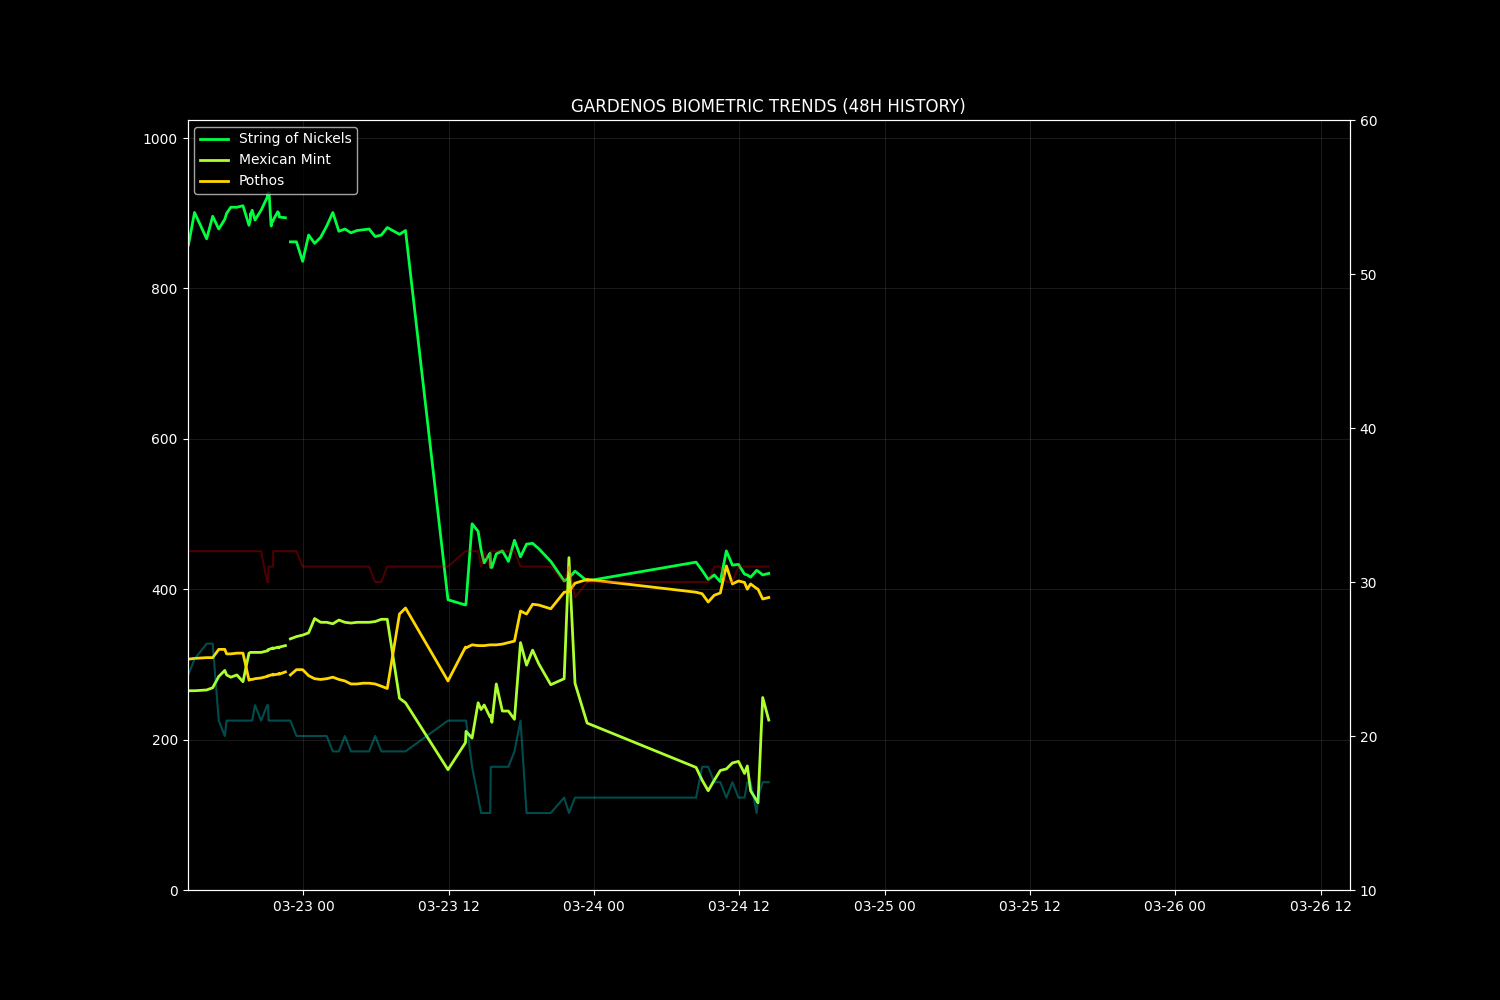
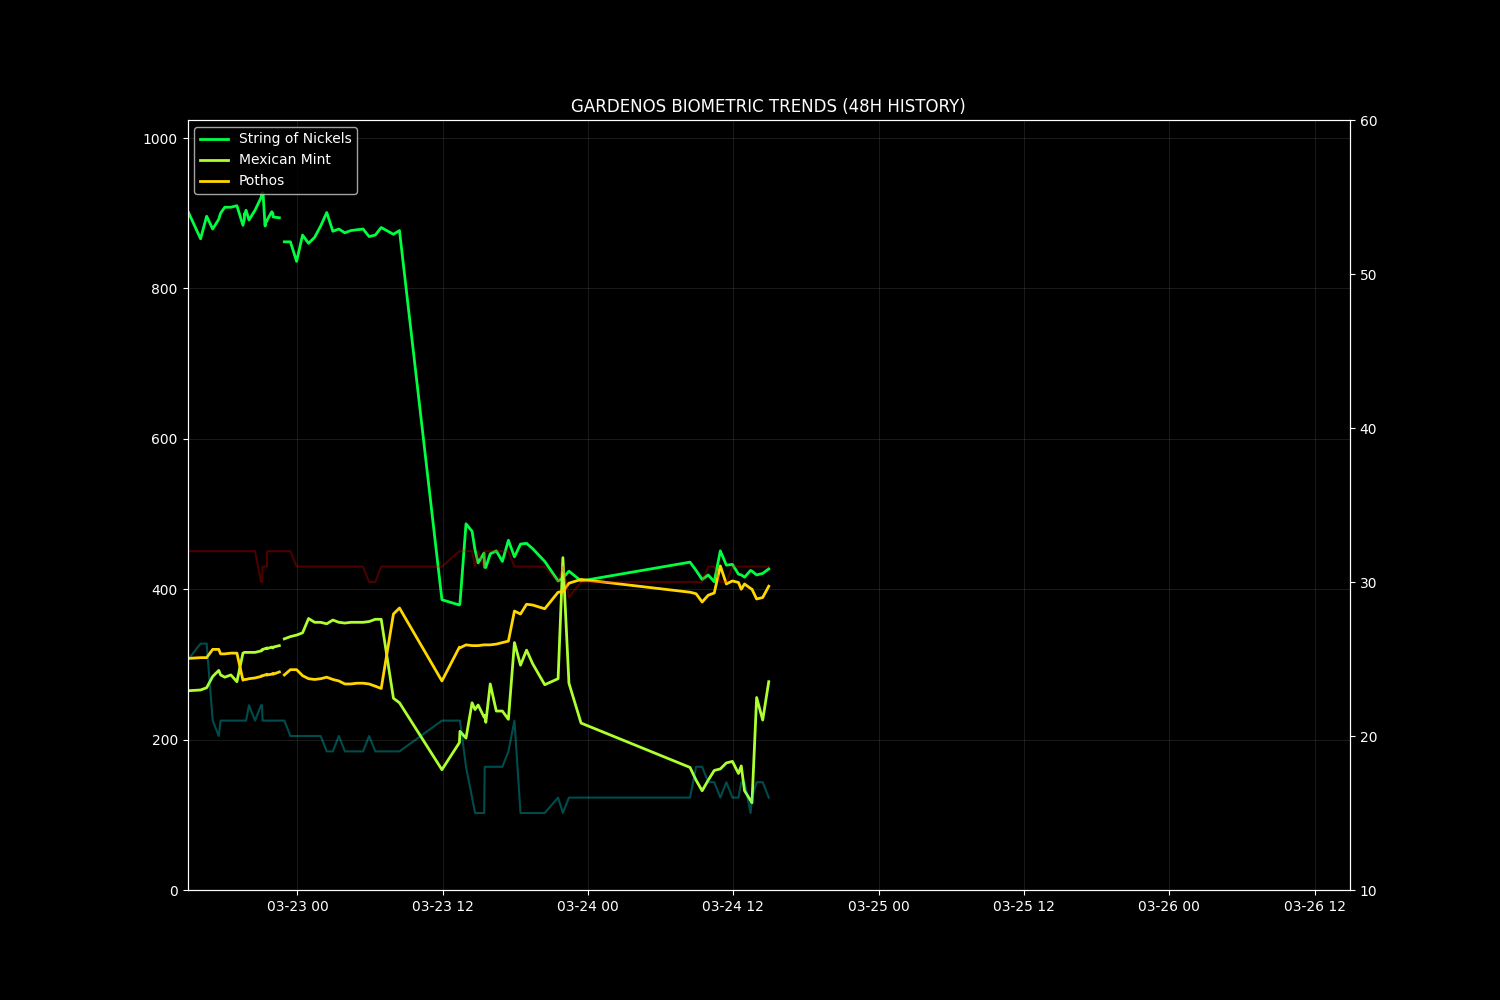
Warden Cycle: 2026-03-24 14:55:29

diff --git a/docs/index.html b/docs/index.html
@@ -150,8 +150,13 @@
                 };
                 ['p1', 'p2', 'p3'].forEach(updatePlant);
 
-                // 3. Update Chart using Metrics (Percentages)
-                drawChart(metrics.slice(-144));
+                // 3. Join Telemetry and Metrics for the Chart (72-Hour Window) 
+                // Assumes 1 measurement every 20-30 mins, so ~216 points for 72h
+                const chartData = metrics.slice(-216).map(m => {
+                    const t = telemetry.find(tel => tel.timestamp === m.timestamp);
+                    return t ? { ...m, temp: t.temp, hum: t.hum, light: t.light } : m;
+                });
+                drawChart(chartData);
 
                 // 4. Update Log from Public Ledger (The actual narrative)
                 const ledgerRes = await fetch('./data/ledger.md');
@@ -180,22 +185,37 @@
                 data: {
                     labels: data.map(d => d.timestamp ? d.timestamp.split(' ')[1].substring(0,5) : ''),
                     datasets: [
-                        { label: 'Nickels', data: data.map(d => d.p1_pct), borderColor: '#00FF41', tension: 0.3, pointRadius: 0 },
-                        { label: 'Mint', data: data.map(d => d.p2_pct), borderColor: '#ADFF2F', tension: 0.3, pointRadius: 0 },
-                        { label: 'Pothos', data: data.map(d => d.p3_pct), borderColor: '#FFD700', tension: 0.3, pointRadius: 0 }
+                        { label: 'Nickels', data: data.map(d => d.p1_pct), borderColor: '#00FF41', bg: '#00FF41', tension: 0.3, pointRadius: 0, borderWidth: 2, z: 10 },
+                        { label: 'Mint', data: data.map(d => d.p2_pct), borderColor: '#ADFF2F', bg: '#ADFF2F', tension: 0.3, pointRadius: 0, borderWidth: 2, z: 10 },
+                        { label: 'Pothos', data: data.map(d => d.p3_pct), borderColor: '#FFD700', bg: '#FFD700', tension: 0.3, pointRadius: 0, borderWidth: 2, z: 10 },
+                        { label: 'Temp (°C)', data: data.map(d => d.temp), borderColor: 'rgba(249, 115, 22, 0.4)', tension: 0.3, pointRadius: 0, borderWidth: 1, fill: false },
+                        { label: 'Hum (%)', data: data.map(d => d.hum), borderColor: 'rgba(56, 189, 248, 0.4)', tension: 0.3, pointRadius: 0, borderWidth: 1, fill: false },
+                        { label: 'Light (Lux)', data: data.map(d => d.light), borderColor: 'rgba(250, 204, 21, 0.8)', tension: 0.3, pointRadius: 0, borderWidth: 1, yAxisID: 'yLux', fill: false }
                     ]
                 },
                 options: { 
                     responsive: true, maintainAspectRatio: false,
+                    interaction: { mode: 'index', intersect: false },
                     scales: { 
                         y: { 
                             min: 0, max: 100,
                             grid: { color: '#334155' },
-                            title: { display: true, text: 'Moisture %', color: '#94a3b8' }
-                        }, 
-                        x: { grid: { display: false }, ticks: { maxTicksLimit: 10 } } 
+                            title: { display: true, text: 'Moisture / Humidity %', color: '#94a3b8' },
+                            ticks: { color: '#94a3b8' }
+                        },
+                        yLux: {
+                            position: 'right',
+                            min: 0,
+                            grid: { display: false },
+                            title: { display: true, text: 'Light (Lux)', color: '#94a3b8' },
+                            ticks: { color: '#facc15' }
+                        },
+                        x: { grid: { display: false }, ticks: { maxTicksLimit: 12, color: '#64748b' } } 
                     },
-                    plugins: { legend: { labels: { color: '#94a3b8' } } }
+                    plugins: { 
+                        legend: { position: 'top', labels: { color: '#94a3b8', usePointStyle: true, padding: 20 } },
+                        tooltip: { backgroundColor: '#1e293b', titleColor: '#4ade80', bodyColor: '#e2e8f0', borderColor: '#334155', borderWidth: 1 }
+                    }
                 }
             });
         }
